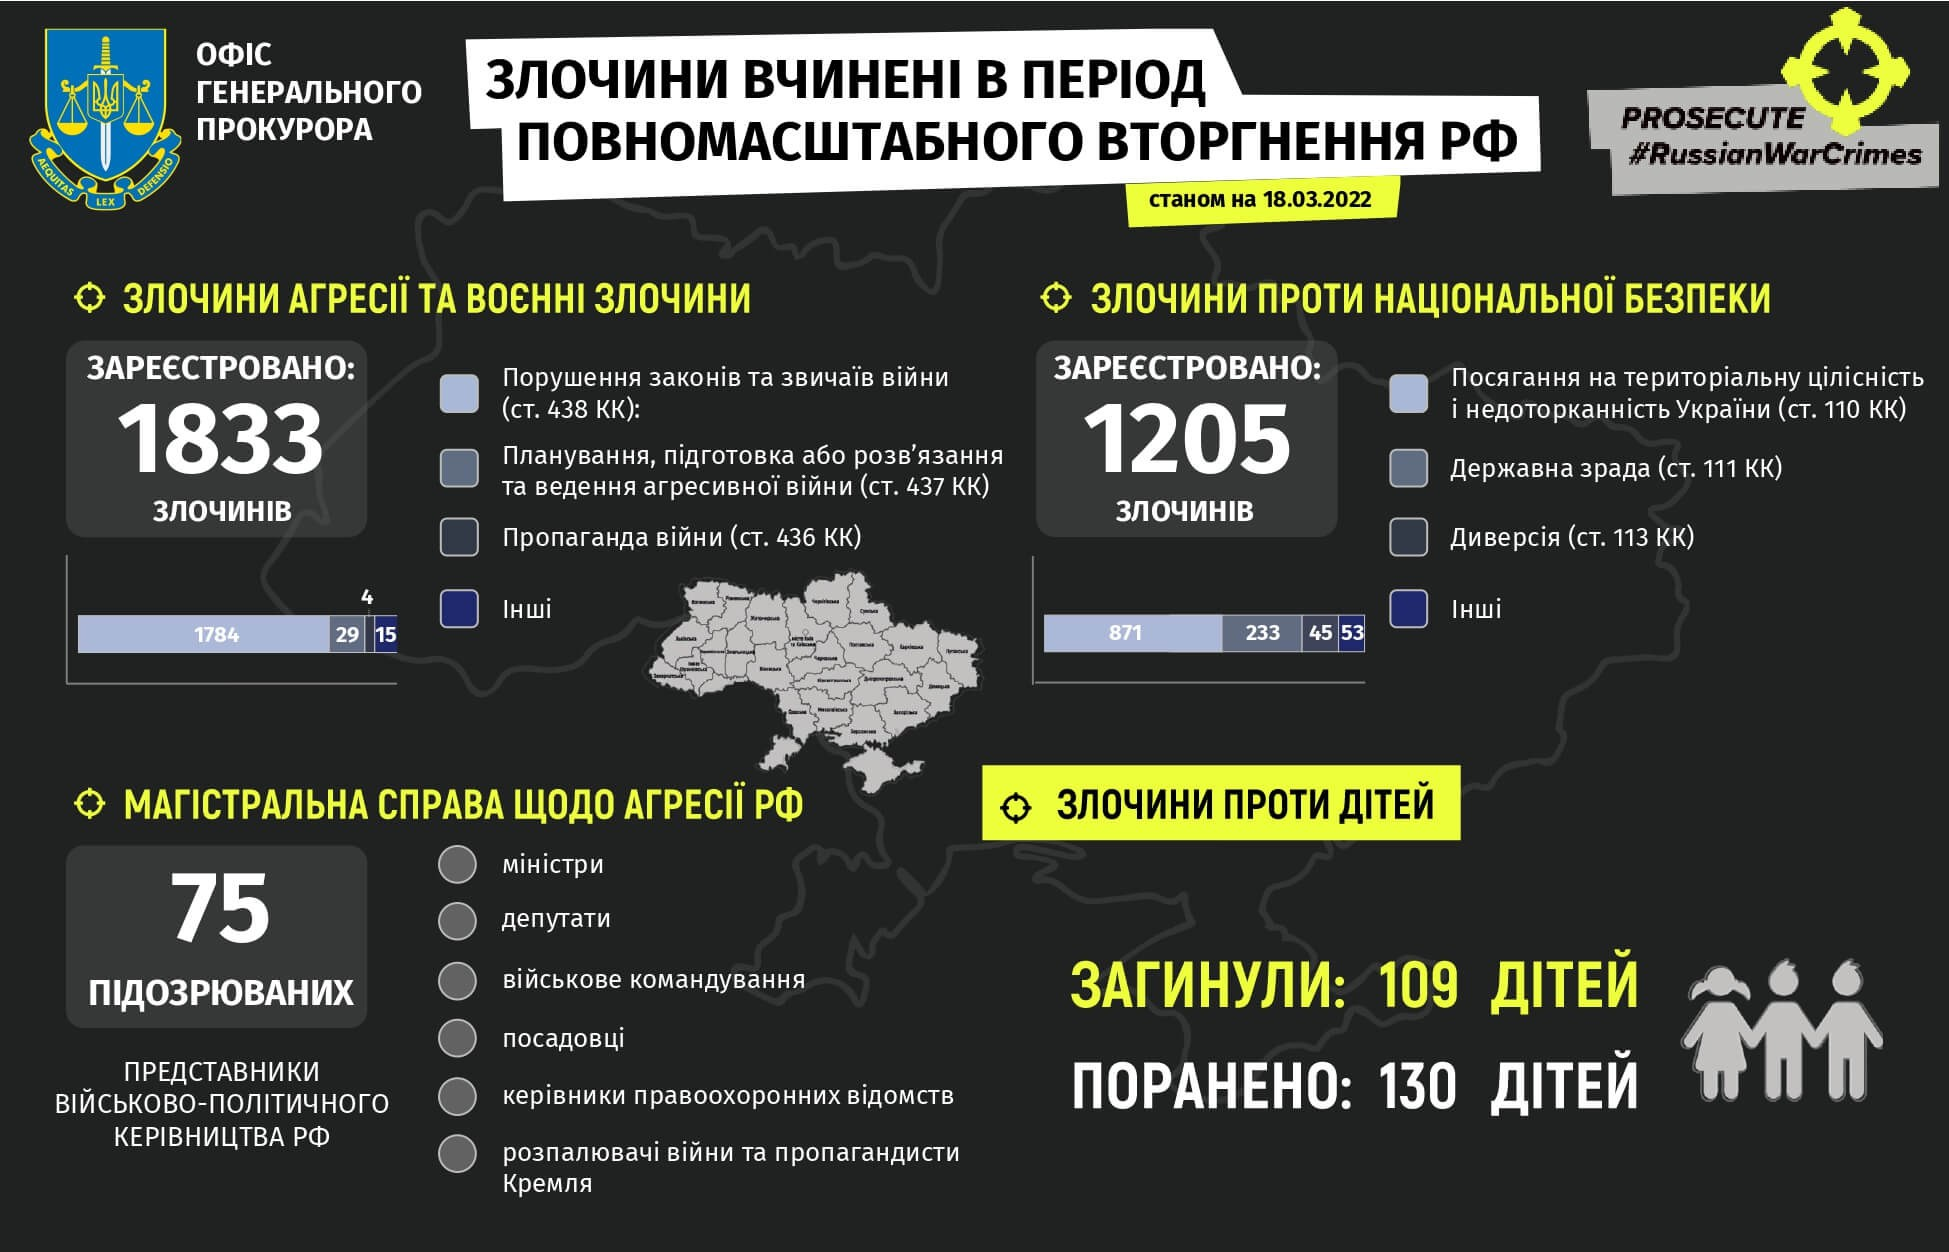
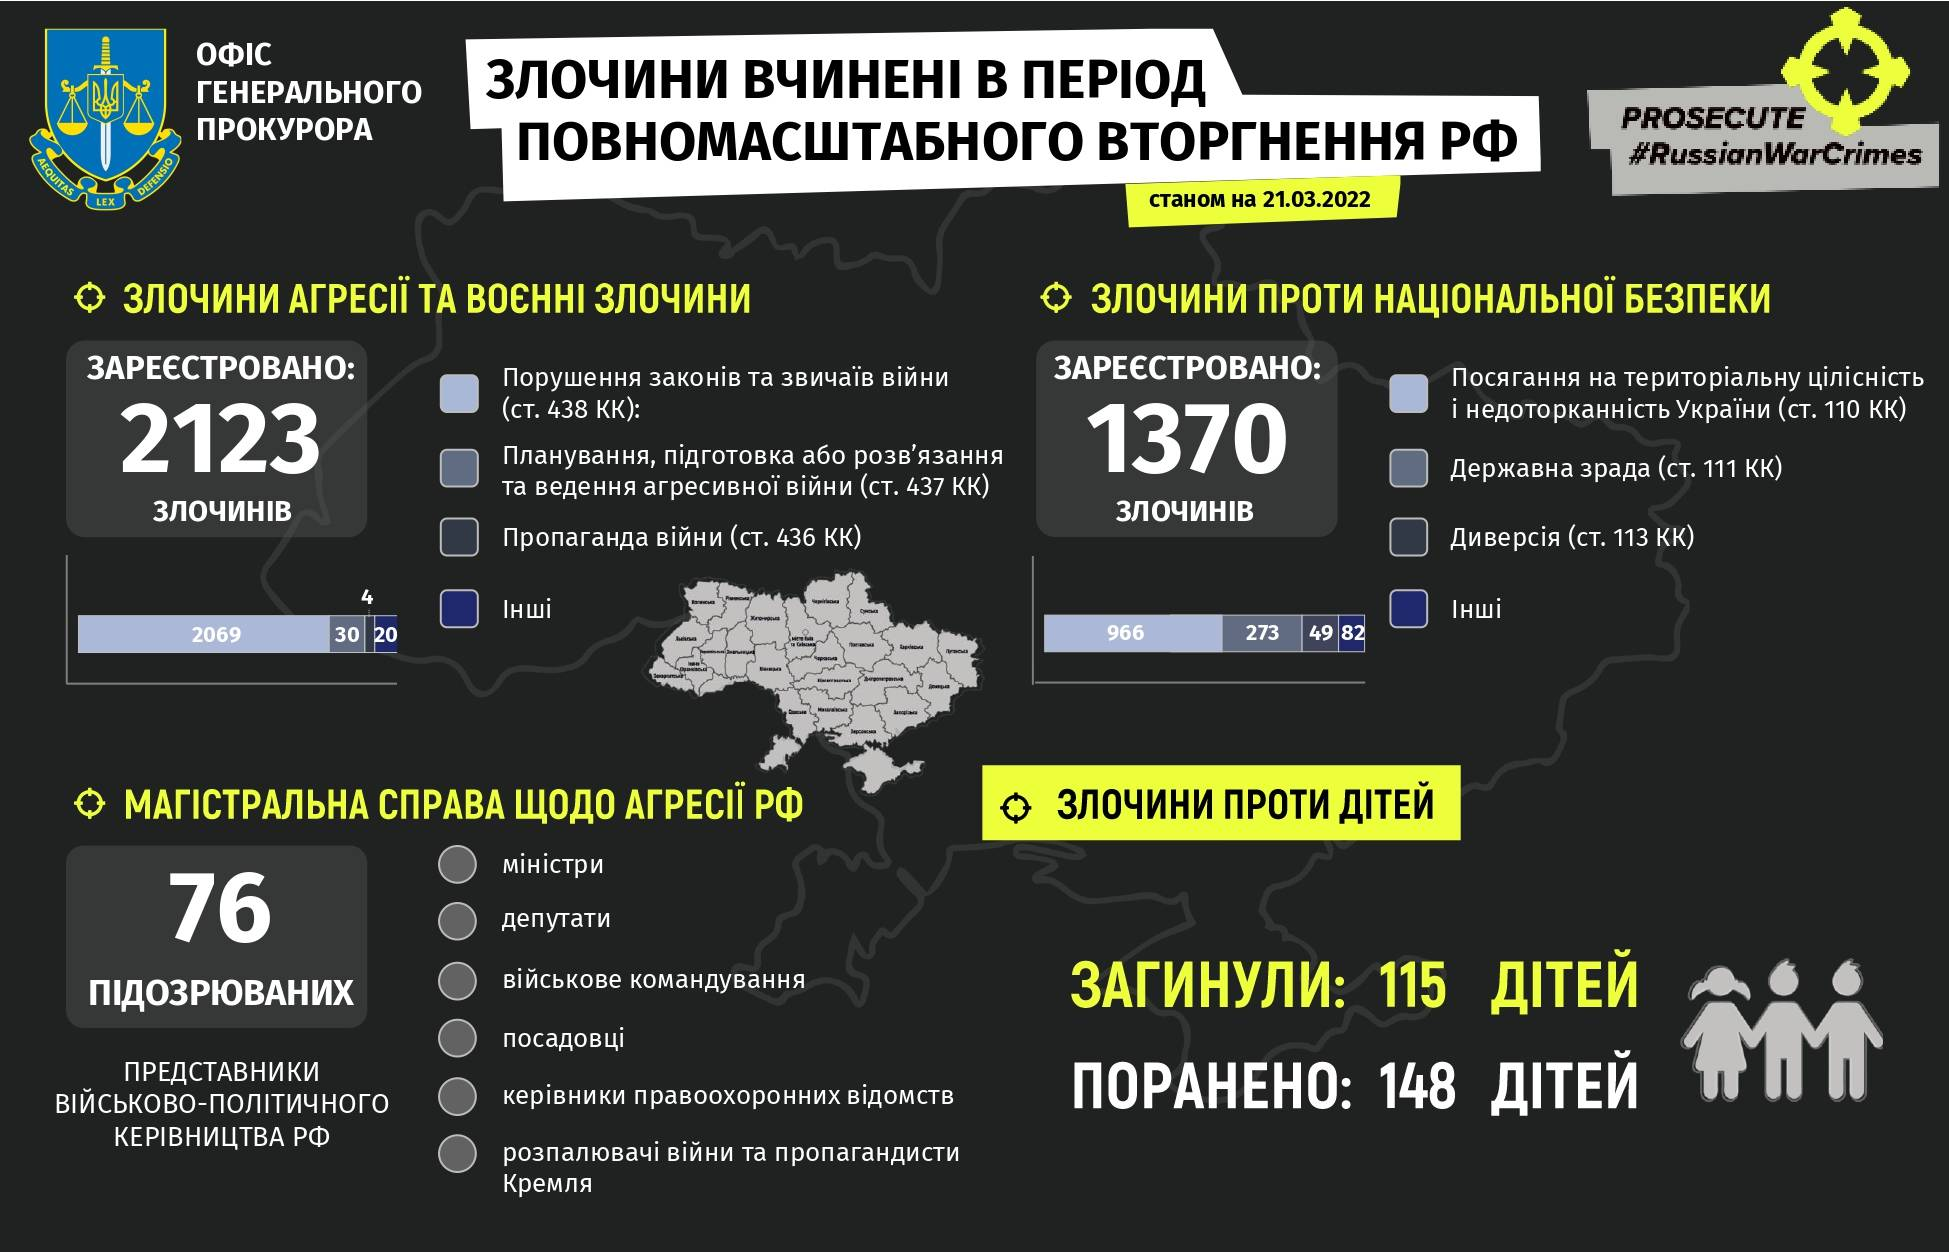
new image

diff --git a/all-crimes.html b/all-crimes.html
@@ -48,8 +48,8 @@
 </header>
 
 <div class="allcrimes">
-    <img src="/public/img/all-warcrimes-mob.jpg?v=1803" alt="Зафіксовані воєнні злочини РФ в Україні" decoding="async" width="863" height="2114" />
-    <img src="/public/img/all-warcrimes-desc.jpg?v=1703" alt="Зафіксовані воєнні злочини РФ в Україні" decoding="async" width="1949" height="1244" />
+    <img src="/public/img/all-warcrimes-mob.jpg?v=2103" alt="Зафіксовані воєнні злочини РФ в Україні" decoding="async" width="863" height="2114" />
+    <img src="/public/img/all-warcrimes-desc.jpg?v=2103" alt="Зафіксовані воєнні злочини РФ в Україні" decoding="async" width="1949" height="1244" />
 </div>
 
 <footer class="footer">
